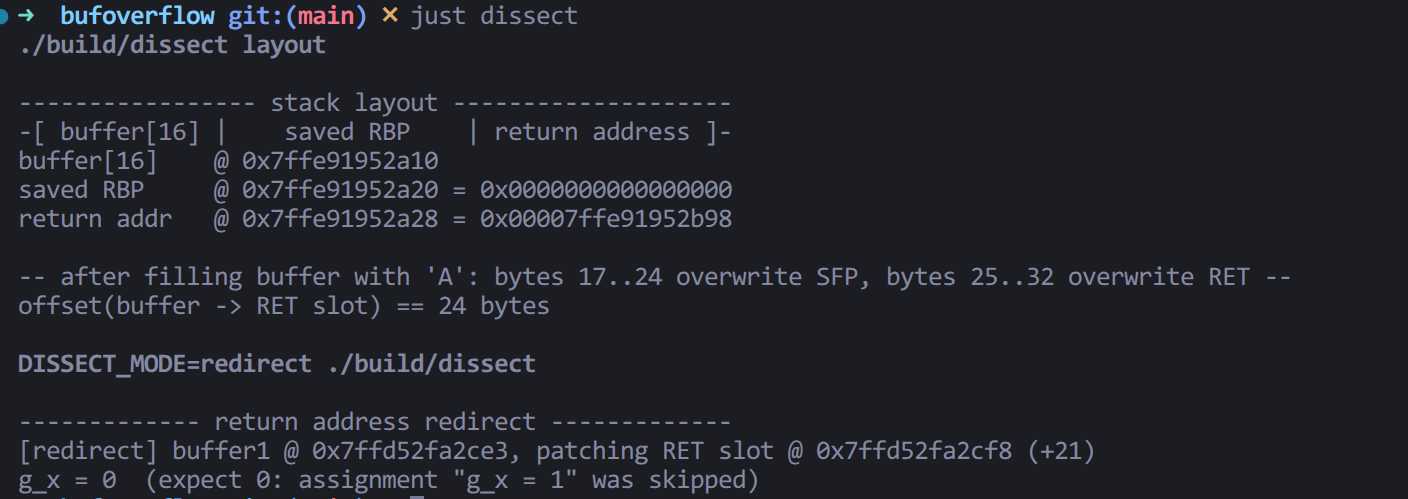
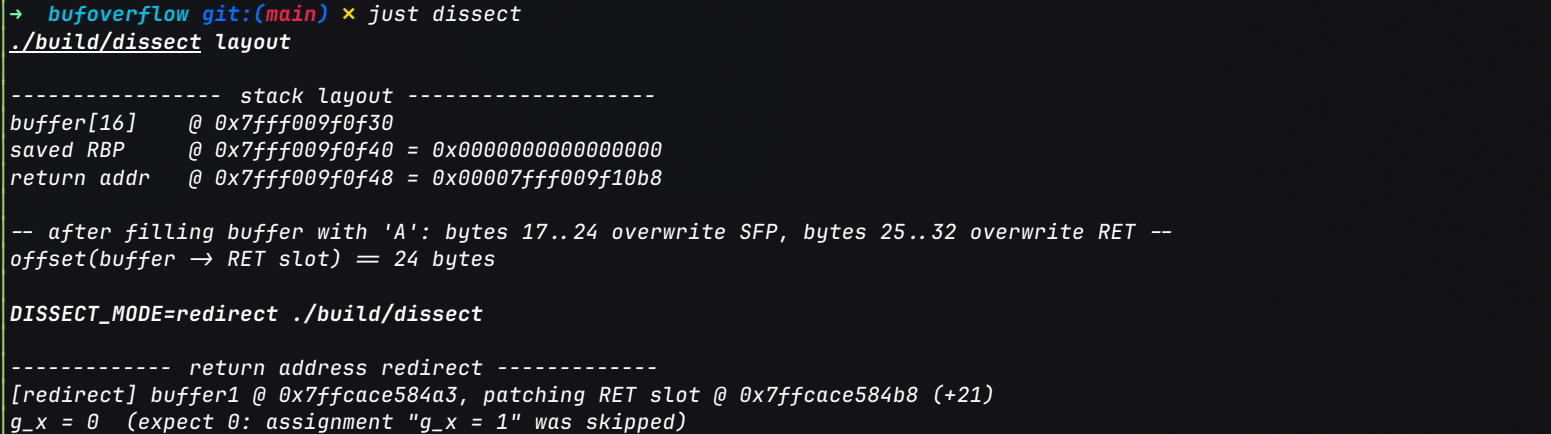
sync

diff --git a/docs/blog/posts/缓冲区溢出.md b/docs/blog/posts/缓冲区溢出.md
@@ -196,7 +196,47 @@ BOF利用的一个核心思想就是控制流劫持.
 
 这个位置关系解释了越界写入为何有机会碰到控制信息, 但要说明的是, `layout` 模式本身只用 `memset` 在数组边界内填充 `A`, 再读取并打印邻近槽位; 它没有执行越界写入. 数组、saved RBP 和返回地址是否按图中顺序相邻, 取决于具体二进制的编译器、选项和栈帧布局.
 
-`redirect` 模式进一步隔离演示了返回地址如何改变控制流. 它不是通过缓冲区溢出覆盖返回地址, 而是用 `buffer1 + 21` 直接定位并修改返回地址槽. 对应构建产物的关键反汇编如下:
+`redirect` 模式进一步隔离演示了返回地址如何改变控制流. 它不是通过缓冲区溢出覆盖返回地址, 而是用 `buffer1 + 21` 直接定位并修改返回地址槽.
+
+```c
+/**
+ * ret_redirect() - B. 修改返回地址(论文 example3 复刻).
+ *
+ * 把本函数栈上的返回地址 += RET_SKIP_DELTA, 跳过 main 中
+ * call 之后的赋值语句(g_x = 0/1;), 让函数 return 直达 printf.
+ * 这就是"不弹 shell, 只劫持一次控制流"的最小溢出演示.
+ */
+static volatile int g_x;
+
+/* x86_64 gcc -O0 布局下, buffer1 起点到 RET 槽的距离.
+ * 论文 i386 上是 12;
+ * 这里实测(gcc 16 -O0): buffer1 在 rbp-0xd,
+ * RET 槽恒在 rbp+8 -> 21. 计算方法:
+ *   objdump -d build/dissect | sed -n '/<ret_redirect>:/,/ret/p'
+ *   找 lea -0xN(%rbp)(buffer1 的地址)-> RET_OFFSET = 8 + N */
+#define RET_OFFSET_FROM_BUF 21
+
+/* 返回地址要加的步长: call 返回点 = main 里 g_x = 0;(movl 共 10 字节),
+ * 再 +10 跳过 g_x = 1; (同样 10 字节), 直达 printf 的取值指令.
+ * 论文原稿写 +8 是笔误(论文自注 "should be 10"). 差 1 字节就会落在
+ * 指令中间, 然后触发SIGSEGV/SIGILL. */
+#define RET_SKIP_DELTA 20
+
+__attribute__((noinline))
+static void ret_redirect(void)
+{
+	char buffer1[5];
+	char buffer2[10];
+	int *ret;
+
+	ret = (int *)((char *)buffer1 + RET_OFFSET_FROM_BUF);
+	printf("[redirect] buffer1 @ %p, patching RET slot @ %p (+%d)\n",
+	       (void *)buffer1, (void *)ret, RET_OFFSET_FROM_BUF);
+	*ret += RET_SKIP_DELTA;	/* 跳过 call 返回后的赋值语句 */
+}
+```
+
+对应构建产物的关键反汇编如下:
 
 ```asm
 ; main 中调用 ret_redirect
